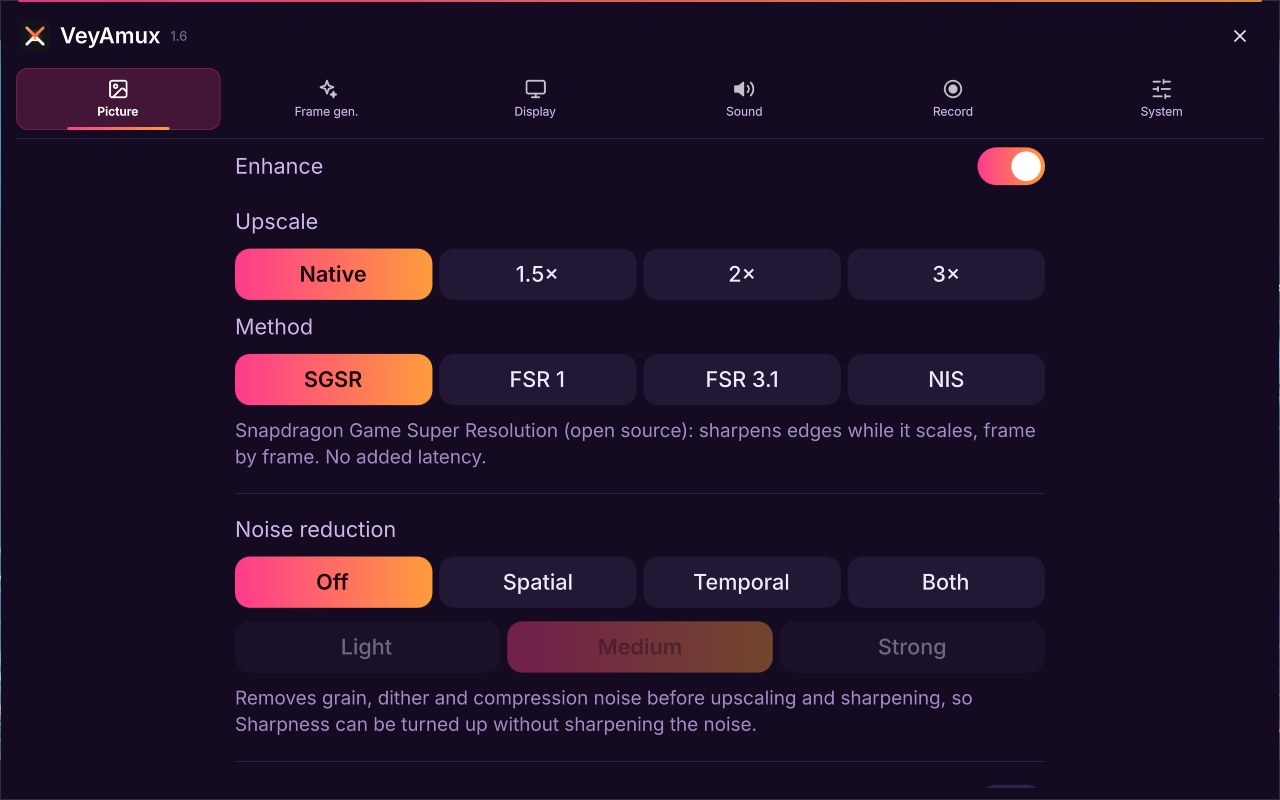
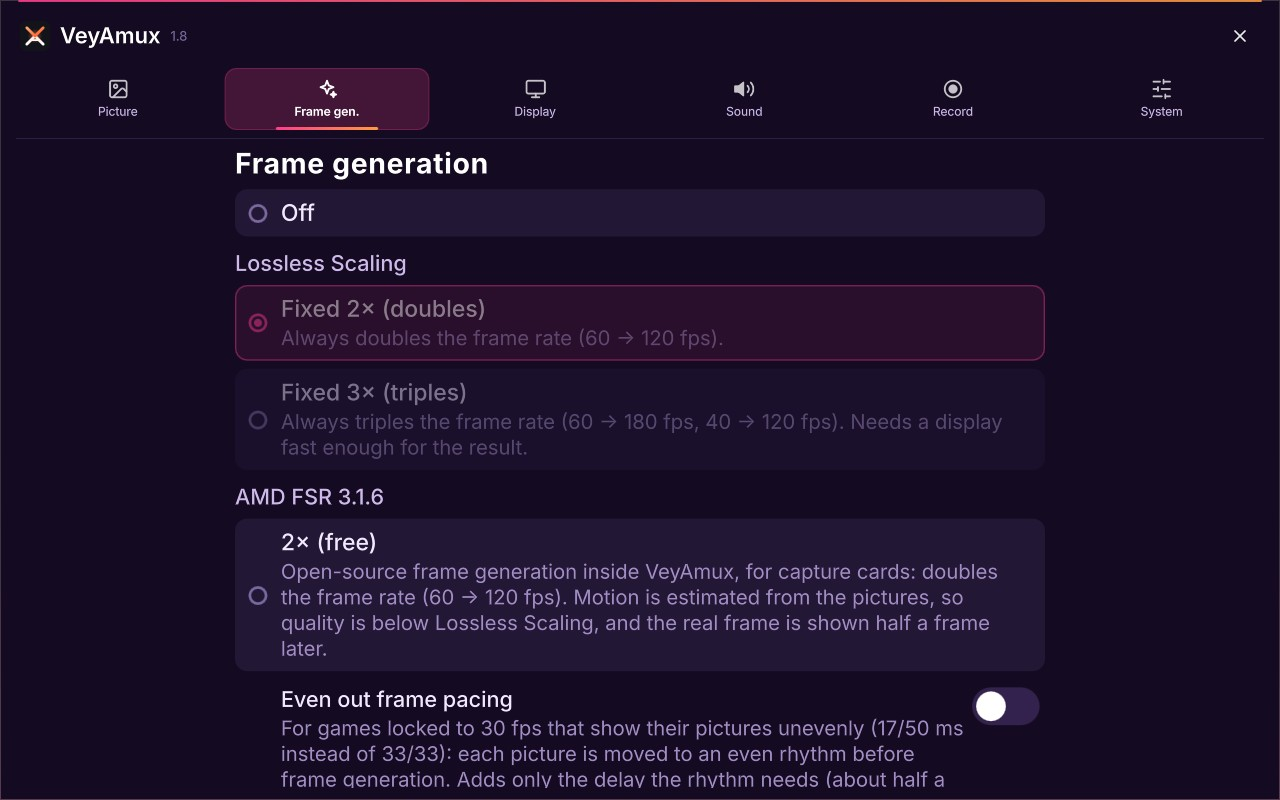
VeyAmux-V.1.8
- gamescope (SteamOS / Big Picture): while frame generation runs, the pointer is kept alive (nudged one pixel and
  back every 2 s, ignored by VeyAmux, and hidden with an all-but-transparent cursor instead of none), since frame
  generation was reported to stop a few seconds after the mouse stopped. VEYAMUX_GAMESCOPE_KEEPALIVE=0 turns it off.
- Release notes, README (New in 1.8, latency, troubleshooting), new screenshots, docs/REVIEW-FIXES.md.

Code review fixes, with notes in docs/REVIEW-FIXES.md:
Fixes MarkStokes-outlook/VeyAmux#1 (V4L2 buffer lease)
Fixes MarkStokes-outlook/VeyAmux#2 (plane bounds, MJPEG padding)
Refs MarkStokes-outlook/VeyAmux#3 (card YUV range)
Fixes MarkStokes-outlook/VeyAmux#4 (recording independent of the preview, write errors)
Fixes MarkStokes-outlook/VeyAmux#5 (OBS access and shutdown)
Fixes MarkStokes-outlook/VeyAmux#6 (pinned, checked build tools; update checks)
Fixes MarkStokes-outlook/VeyAmux#7 (private settings file)
Refs MarkStokes-outlook/VeyAmux#8 (FFmpeg interrupt, protocols, UI gate)
Refs MarkStokes-outlook/VeyAmux#9 (live-path test in CI)
Refs MarkStokes-outlook/VeyAmux#10 (resize without stalls)
Refs MarkStokes-outlook/VeyAmux#11 (seek resets, immediate drawing)
Refs MarkStokes-outlook/VeyAmux#12 (PQ transfer for FSR frame generation)

Claude-Session: https://claude.ai/code/session_01B4TdVpLCa5512iQxziCMJs

diff --git a/qml/Main.qml b/qml/Main.qml
@@ -35,6 +35,9 @@ Window {
         return (h > 0 ? h + ":" + (m < 10 ? "0" : "") : "") + m + ":" + (s < 10 ? "0" : "") + s
     }
     function wake() { controlsShown = true; hideTimer.restart() }
+    // gamescope: VeyAmux hides the pointer itself there, all but invisibly (see PlayerBridge::setPointerHidden)
+    readonly property bool pointerHidden: !controlsShown && fs && player.hasMedia
+    onPointerHiddenChanged: player.setPointerHidden(pointerHidden)
     readonly property var scales: [1.0, 1.5, 2.0, 3.0]
 
     Timer { id: hideTimer; interval: 2600; onTriggered: if (player.playing && !panelOpen && !scrubbing && !keepControls) controlsShown = false }
@@ -245,6 +248,7 @@ Window {
         cursorShape: player.demoActive && pressed ? Qt.ClosedHandCursor : (win.controlsShown || !win.fs) ? Qt.ArrowCursor : Qt.BlankCursor
         onPressed: (m) => { lx = m.x; ly = m.y }
         onPositionChanged: (m) => {
+            if (player.syntheticMove()) return   // gamescope keep-alive, not the user
             wake()
             if (pressed && player.demoActive) { player.demoLook(m.x - lx, m.y - ly); lx = m.x; ly = m.y }
         }

diff --git a/src/PlayerBridge.cpp b/src/PlayerBridge.cpp
@@ -1,4 +1,6 @@
 #include "PlayerBridge.h"
+#include <QPixmap>
+#include <QCursor>
 #include "Sandbox.h"
 #include "DemoSource.h"
 #include "RemotePlay.h"
@@ -181,6 +183,39 @@ PlayerBridge::PlayerBridge(const QString& shaderDir, QObject* parent)
     // updates: asked by itself a few seconds after the start (not while the first picture is being set up)
     if (autoUpdateCheck() && qEnvironmentVariable("VEYAMUX_NO_UPDATE_CHECK") != "1")
         QTimer::singleShot(8000, this, [this] { checkForUpdate(false); });
+    // Steam's gamescope session (SteamOS, Big Picture as a session): frame generation was reported to stop a few
+    // seconds after the mouse stops, and to come back when it moves. When the pointer is hidden and still, gamescope
+    // changes how it puts the window on screen. So while frame generation runs there, the pointer is never fully
+    // hidden (an all-but-transparent one, see setPointerHidden) and it is moved one pixel and back every two seconds,
+    // which VeyAmux itself ignores (syntheticMove). VEYAMUX_GAMESCOPE_KEEPALIVE=0 turns it off.
+    gamescope_ = inGamescope() || qEnvironmentVariable("XDG_CURRENT_DESKTOP").contains("gamescope", Qt::CaseInsensitive);
+    if (gamescope_ && qEnvironmentVariable("VEYAMUX_GAMESCOPE_KEEPALIVE") != "0") {
+        auto* keep = new QTimer(this);
+        connect(keep, &QTimer::timeout, this, [this] {
+            if (s_.frameGen == veyamux::FrameGenMode::Off || !hasMedia()) return;
+            const QPoint p = QCursor::pos();
+            nudgeUntil_.start();
+            QCursor::setPos(p + QPoint(p.x() > 0 ? -1 : 1, 0));
+            QCursor::setPos(p);
+        });
+        keep->start(2000);
+    }
+}
+
+bool PlayerBridge::syntheticMove() const { return nudgeUntil_.isValid() && nudgeUntil_.elapsed() < 250; }
+
+void PlayerBridge::setPointerHidden(bool hidden) {
+    if (!gamescope_ || qEnvironmentVariable("VEYAMUX_GAMESCOPE_KEEPALIVE") == "0") return;   // QML hides it itself
+    if (hidden == pointerHidden_) return;
+    pointerHidden_ = hidden;
+    if (hidden) {
+        // one pixel at the lowest alpha: nothing to see, but gamescope still has a pointer to draw
+        QImage img(1, 1, QImage::Format_ARGB32);
+        img.fill(qRgba(0, 0, 0, 1));
+        QGuiApplication::setOverrideCursor(QCursor(QPixmap::fromImage(img), 0, 0));
+    } else {
+        QGuiApplication::restoreOverrideCursor();
+    }
 }
 
 PlayerBridge::~PlayerBridge() {

diff --git a/src/PlayerBridge.h b/src/PlayerBridge.h
@@ -499,6 +499,9 @@ public slots:
     void demoPose(int pose);                       // -1: the next viewpoint
     void demoRelease();
     void demoPad(double lx, double ly, double rx, double ry, double lt, double rt, bool fast);
+    // gamescope: the pointer moved by VeyAmux itself (ignored by the window), and hiding it all but invisibly
+    bool syntheticMove() const;
+    void setPointerHidden(bool hidden);
 
     // ---- PlayStation Remote Play
     QVariantList psConsoles() const;
@@ -612,6 +615,8 @@ private:
             if (!closing) QMetaObject::invokeMethod(to, std::forward<F>(f), Qt::QueuedConnection);
         }
     };
+    bool gamescope_ = false, pointerHidden_ = false;
+    QElapsedTimer nudgeUntil_;
     std::shared_ptr<UiGate> psQuit_ = std::make_shared<UiGate>();   // VeyAmux is closing
     QTimer* psTimer_ = nullptr;     // refreshes the console list while searching
     QVariantList psSeen_;           // last discovery result

diff --git a/src/main.cpp b/src/main.cpp
@@ -106,7 +106,7 @@ int main(int argc, char** argv) {
 
     QCoreApplication::setOrganizationName("VeyAmux");
     QCoreApplication::setApplicationName("VeyAmux");
-    QCoreApplication::setApplicationVersion("1.7");
+    QCoreApplication::setApplicationVersion("1.8");
     // The program was called Veyra before: carry the old settings over once (the old folder is left untouched).
     {
         const QString base = QStandardPaths::writableLocation(QStandardPaths::GenericConfigLocation);

diff --git a/docs/REVIEW-FIXES.md b/docs/REVIEW-FIXES.md
@@ -1,0 +1,132 @@
+# Fixes from the code review (VeyAmux 1.8)
+
+On 2026-11-22, a code review was posted as issues 1–13 in
+[MarkStokes-outlook/VeyAmux](https://github.com/MarkStokes-outlook/VeyAmux/issues). Each finding was checked against
+the code. This page says what was fixed in 1.8, why, and what is left. (Issue 9 could not be read while this was
+written. GitHub kept refusing the page.)
+
+| Issue | Status |
+|---|---|
+| [#1](https://github.com/MarkStokes-outlook/VeyAmux/issues/1) V4L2 buffers through the Vulkan upload | Fixed |
+| [#2](https://github.com/MarkStokes-outlook/VeyAmux/issues/2) Plane bounds and MJPEG padding | Fixed |
+| [#3](https://github.com/MarkStokes-outlook/VeyAmux/issues/3) Range, transfer and primaries | Partly: the card's YUV range |
+| [#4](https://github.com/MarkStokes-outlook/VeyAmux/issues/4) Recording resolution independent of the preview | Fixed |
+| [#5](https://github.com/MarkStokes-outlook/VeyAmux/issues/5) OBS frame access and shutdown | Fixed |
+| [#6](https://github.com/MarkStokes-outlook/VeyAmux/issues/6) Build provenance and update installation | Fixed |
+| [#7](https://github.com/MarkStokes-outlook/VeyAmux/issues/7) Credentials | Fixed (file permissions) |
+| [#8](https://github.com/MarkStokes-outlook/VeyAmux/issues/8) Media I/O and background work on shutdown | Mostly fixed |
+| [#9](https://github.com/MarkStokes-outlook/VeyAmux/issues/9) Linux tests and a GPU baseline | Started: a live-path test runs in CI |
+| [#10](https://github.com/MarkStokes-outlook/VeyAmux/issues/10) Vulkan memory and resize stalls | Fixed: resize stalls |
+| [#11](https://github.com/MarkStokes-outlook/VeyAmux/issues/11) Temporal resets and presentation cadence | Partly |
+| [#12](https://github.com/MarkStokes-outlook/VeyAmux/issues/12) HDR precision and frame-generation transfer | Partly: the transfer |
+| [#13](https://github.com/MarkStokes-outlook/VeyAmux/issues/13) Profiling | Not yet (needs measurements on real hardware) |
+
+## #1 Keep V4L2 capture buffers owned through the Vulkan upload — fixed
+**What was wrong:** for uncompressed capture (NV12, YUYV, UYVY, P010), VeyAmux reads the picture straight from the
+driver's buffer and does not copy it first. The buffer was meant to stay with VeyAmux until the renderer had copied
+it, through a `shared_ptr` with a custom deleter. But that `shared_ptr` held a null pointer, and
+`if (!out.hold) QBUF` treated it as empty. So the buffer was handed back to the driver at once, and again when the
+frame was dropped. The card could write the next picture into a buffer the renderer was still reading. The result
+could be torn frames, frames in the wrong order, and wrong repeat detection for frame generation.
+
+**What changed:** every dequeued buffer has one owner, a lease that queues it again exactly once, when the last frame
+holding it lets go. The card always keeps at least three buffers to capture into. If the renderer holds too many, the
+picture is copied instead. VeyAmux now asks for 8 buffers instead of 6. The renderer also lets go at once of a
+picture it will not draw again, and of everything when the live path stops.
+
+## #2 Validate capture plane bounds and pad MJPEG packets — fixed
+**What was wrong:** MJPEG packets were handed to FFmpeg straight from the driver's buffer. FFmpeg may read up to 64
+bytes past the end of a packet, and that buffer has no padding there. Raw frames were also not checked against the
+size of all their planes. The GPU upload buffer was always `w × h × 4` bytes, which can be too small for a card that
+pads its rows.
+
+**What changed:** the JPEG is copied into a buffer with FFmpeg's zero padding. A frame shorter than its planes is
+refused before anything reads it, both on the CPU and before the GPU copy. Odd sizes and too-short strides are
+refused for YUV. The upload buffer grows to the frame's real size.
+
+## #3 Preserve range, transfer and primaries — partly
+**What changed:** when the card says its YUV is full range (V4L2 quantization), the picture is now decoded as full
+range on the GPU path too. Before, the GPU path always decoded limited range. Carrying the whole colour description
+(matrix, primaries, transfer) through every path is a larger change and is not done yet. Note: the colour report in
+[8BiTw0LF/VeyAmux#2](https://github.com/8BiTw0LF/VeyAmux/issues/2) points at the experimental HDR output, not this.
+
+## #4 Keep recording and stream resolution independent of the preview — fixed
+**What was wrong:** recording, instant replay and streaming used the picture after it was fitted to the window. If you
+resized the window or moved it to a screen with another scale, the encoder got a new size, and that ended the
+recording and the stream. Write errors (a full disk) and a failed file ending were ignored, so "Recording saved" could
+appear for a broken file.
+
+**What changed:** recording and streaming take the picture before it is fitted to the window. A write or file-ending
+error stops the recording with a message. A replay shows "saved" only when the file was finished correctly.
+
+## #5 Restrict OBS frame access and make shutdown safe — fixed
+**What was wrong:** the local OBS server sent `Access-Control-Allow-Origin: *` on every response, so any web page open
+in a browser could read the live picture from `127.0.0.1`. A site that points its own name at 127.0.0.1 (DNS rebinding)
+could also do so. `stop()` aborted the sockets while it walked the list of viewers, and an abort removes a viewer from
+that list straight away.
+
+**What changed:**
+- Only `/ping` (which the saved browser file needs) can be read by other pages. The pictures carry no CORS header, so a
+  page can show them but never read their pixels.
+- Requests with a foreign `Host` are refused.
+- At most 8 viewers. Connections that never send a request are closed after 10 s.
+- A picture from before a stop is never sent again.
+- `stop()` takes the list out first.
+
+The OBS browser file keeps working unchanged.
+
+## #6 Harden AppImage build provenance and update installation — fixed
+**What was wrong:** the build downloaded linuxdeploy, its Qt plugin and appimagetool from "continuous" releases, and
+the newest DXC. appimagetool also fetched the newest AppImage runtime while building. None of them was checked. The
+GitHub Actions were pinned by tag only.
+
+**What changed:**
+- All of these tools, the runtime included, are fixed releases checked by SHA-256. A mismatch stops the build.
+- The workflow's actions are pinned to commits.
+- An in-app update must come from GitHub (after redirects), have the size GitHub lists and be a real type-2 AppImage,
+  in addition to the checksum it was already checked against.
+
+## #7 Protect streaming and Remote Play credentials — fixed (file permissions)
+**What changed:** the stream key, the PSN account ID and the console registration keys are kept in
+`~/.config/VeyAmux/VeyAmux.conf`. That file is now readable by your user only (0600, folder 0700); Qt keeps the
+permissions when it rewrites the file. A keyring (Secret Service) is a possible next step.
+
+## #8 Bound media I/O and cancel background work safely on shutdown — mostly fixed
+**What was wrong:** a stalled read (a network share or stream) could not be interrupted when the player closed.
+Background threads (update check and download, lsfg-vk download, Remote Play) checked a "closing" flag and then posted
+to the UI. VeyAmux could finish closing between those two steps.
+
+**What changed:**
+- FFmpeg has an interrupt callback tied to closing.
+- Local files may only read local files: a playlist inside one cannot reach out to the network.
+- Network reads time out after 15 s.
+- Background results go to the UI through a gate. VeyAmux closes the gate under a lock before it is destroyed, so a
+  result can never reach a closed window.
+
+Not done: opening a file off the UI thread.
+
+## #10 Reduce Vulkan working memory and prevent preview resize stalls — resize stalls fixed
+**What was wrong:** any change of window size rebuilt the whole enhancement chain after `vkDeviceWaitIdle`. That
+stalled the GPU and threw away the history of the denoiser, anti-flicker and upscaler.
+
+**What changed:** when only the window size changes, only the display images are made again. The old ones are freed
+a few frames later, when no frame in flight can use them, and there is no device-wide wait. Smaller working memory is
+not done yet.
+
+## #11 Reset temporal processing reliably — partly
+**What changed:**
+- A seek reset no longer gets lost when a newer frame replaces the one that carried it.
+- A reset now also restarts frame generation and the HUD lock.
+- A new picture is drawn at once: Qt no longer waits for the compositor's frame callback.
+- `VEYAMUX_DEBUG_PACE=1` logs where each picture's time goes.
+
+Not done: measuring the real time the picture reaches the screen, and showing it apart from the drawing times.
+
+## #12 HDR precision and the frame-generation transfer — the transfer
+**What changed:** with HDR output, FSR frame generation is now told that the frames are PQ-coded, with their peak.
+Before, it was told sRGB. A 16-bit preview path is not done yet.
+
+## #9 and #13
+A test of the live capture path (`veyamux-live-test`) now runs in CI on software Vulkan. It covers window resizes,
+padded rows and short frames, and it passes Vulkan validation. The performance work in #13 waits for measurements on
+real hardware.

diff --git a/README.md b/README.md
@@ -25,6 +25,18 @@
 
 ---
 
+## New in 1.8
+
+- **Smoother frame pacing, less delay:** *Even out frame pacing* holds each picture only as long as it has to.
+  Pictures from MJPEG at 60 fps now come evenly. A signal that is already even gets almost no extra delay, and F3
+  shows the hold in ms. A new picture is also drawn at once, without waiting for the compositor.
+- **Capture list:** the best modes come first (on a 4K card: 4K NV12 30, 1080p NV12 30, 4K MJPEG 60). Mark up to
+  **three favourite signals** with ☆; the one used last is chosen automatically.
+- **Steam's gamescope session (SteamOS, Big Picture):** frame generation no longer stops a few seconds after the mouse
+  stops moving.
+- **Fixes from a code review:** capture buffers, recording while the window is resized, resize stalls, the OBS
+  source, private settings, checked updates and build tools. See [what was fixed and why](docs/REVIEW-FIXES.md).
+
 ## New in 1.7
 
 - **PlayStation Remote Play by IP address:** if the console is not found, type its IP address. VeyAmux asks it
@@ -86,7 +98,7 @@ Developed and tested on **Bazzite** (KDE Plasma) with an **AMD RX 9070 XT** and 
 </p>
 
 <p align="center">
-  <img src="docs/images/menu-tabs.jpg" width="900" alt="Three tabs of VeyAmux's menu: Frame generation (Lossless Scaling and AMD FSR 3.1.6, even out frame pacing), Record (instant replay, recording, live stream, comparison clips) and System (Check my setup with two findings, updates, performance report)">
+  <img src="docs/images/menu-tabs.jpg" width="900" alt="Three tabs of VeyAmux's menu: Frame generation (Lossless Scaling and AMD FSR 3.1.6, even out frame pacing), Record (instant replay, recording, live stream, comparison clips) and System (Check my setup, updates, performance report)">
   <br><sub>The Frame generation, Record and System tabs. The findings under <i>Check my setup</i> are from a test PC without a graphics card.</sub>
 </p>
 
@@ -285,10 +297,14 @@ Measured on an AMD RX 9070 XT with a 3840×2160 NV12 capture, noise reduction (*
 - **under 1 ms of CPU work** per frame,
 - **about 7 ms of GPU work** per frame.
 
-The menu shows *Delay in VeyAmux*, the time from the capture driver's timestamp until the picture is finished. In that
-setup it reads about 29–32 ms, and most of it is the picture waiting for the next display refresh, not processing.
-Lighter settings lower it. The capture card, USB, Lossless Scaling and the display add their own latency on top, as
-with any capture setup.
+The menu and F3 show the delay, the time from the capture driver's timestamp until the picture is finished. Most of
+it is not processing:
+- **USB:** a 4K NV12 picture is about 12 MB. At 30 fps it fills the USB link, so each picture takes about 30 ms to
+  arrive, and that counts in the delay. **1080p NV12** takes about 8 ms, and VeyAmux can upscale it again.
+  **4K MJPEG** arrives quickly but has to be decoded, and it is a little softer.
+- **Even out frame pacing** adds only what the rhythm needs. F3 shows the hold in ms.
+
+The capture card, Lossless Scaling and the display add their own latency on top, as with any capture setup.
 
 ## Installation
 
@@ -359,6 +375,8 @@ display. Turn VRR / adaptive sync off for VeyAmux.
 | Frame generation turned off after a crash | Press *Try again* in the menu. To start without lsfg-vk: `VEYAMUX_LSFG=0 ./VeyAmux-x86_64.AppImage` |
 | Motion does not look smoother | The display's refresh rate must match (see step 4). Log: `~/.config/VeyAmux/lsfg-vk.log` |
 | Lossless Scaling stutters or the picture seems to come and go | Turn VRR off (KDE: *Display & Monitor → Adaptive sync: Never*); VeyAmux warns when it is on. With a game locked to 30 fps, also turn on *Even out frame pacing*. |
+| Frame generation stops a few seconds after the mouse stops (Steam Big Picture / SteamOS) | Fixed in 1.8: VeyAmux keeps the pointer alive in gamescope while frame generation runs. To turn it off: `VEYAMUX_GAMESCOPE_KEEPALIVE=0`. |
+| The delay is high with 4K NV12 | Mostly USB transfer, see [Latency](#latency). Choose 1080p NV12 for the least delay. |
 | "Device or resource busy" | Another program (or a hung VeyAmux) uses the capture card. VeyAmux retries for 5 seconds and shows which program holds it. |
 | No 4K @ 60 HDR mode | Many cards only send HDR (P010) at 4K30 or 1440p60 over USB. Use 4K60 NV12 (SDR), 1440p60 P010 with upscaling, or 4K30 P010 with frame generation. |
 | HDR games look washed out | Choose a **P010 (HDR)** mode under Capture (C), and set *HDR capture: source peak brightness* to the game's HDR calibration. |

diff --git a/RELEASE_NOTES.md b/RELEASE_NOTES.md
@@ -1,24 +1,37 @@
-## VeyAmux-V.1.7
+## VeyAmux-V.1.8
 
-### PlayStation Remote Play: add a console by IP address
-Some consoles were never found, so they could not be registered. VeyAmux only looked for consoles by asking the whole
-network, and that does not work when:
-- the console is on another subnet or behind a VPN,
-- the router keeps Wi-Fi devices apart (Wi-Fi isolation),
-- a firewall drops the console's answer. Bazzite and Fedora have firewalld turned on, and it does not see an answer to
-  a network-wide question as a reply.
+### Smoother frame pacing, less delay
+- **Even out frame pacing** now holds a picture only as long as it has to. Before, every picture waited one extra
+  capture refresh, even when there was nothing to even out. And with MJPEG at 60 fps, decoding took longer than that
+  refresh, so the pictures came out uneven again (17/50 ms instead of 33/33). Now the hold follows the slowest recent
+  picture. The rhythm is even, and a signal that is already even gets almost no extra delay. F3 shows the hold in ms.
+- **A new picture is drawn at once.** Before, Qt waited for the compositor's next frame on Wayland, which added a little
+  jitter to every picture.
+- **Steam's gamescope session (SteamOS, Big Picture):** frame generation was reported to stop a few seconds after the
+  mouse stopped moving. While frame generation runs there, VeyAmux now keeps the pointer alive. The pointer stays
+  invisible and the controls stay hidden.
 
-Now the Remote Play window has **Add a console by IP address**. Type the address (on the console: *Settings → Network
-→ Connection Status → View Connection Status*), choose PS5 or PS4 and press **Add**:
-- VeyAmux asks the console directly at that address. That answer gets through the firewall, so the console shows up
-  with its name and whether it is on or in rest mode.
-- If it still does not answer, it can be registered straight at the address with the PIN. Play, wake-up and the rest
-  then work as usual.
-- An address typed by mistake can be removed again.
+### Capture list
+- The best modes come first: the largest uncompressed mode (on a 4K card: **4K NV12 30**, the default), then
+  **1080p NV12 30** (a quarter of the USB traffic, so much less delay), then **4K MJPEG 60** for 60 fps games.
+- **Favourite signals:** click ☆ on up to three modes. They come first, and the one used last is chosen automatically.
+
+### Fixes from a code review
+A code review ([MarkStokes-outlook/VeyAmux](https://github.com/MarkStokes-outlook/VeyAmux/issues)) found real
+problems. What was fixed and why: [docs/REVIEW-FIXES.md](docs/REVIEW-FIXES.md). The most important ones:
+- **Capture cards:** a picture read straight from the card's buffer was handed back to the card at once, so the card
+  could write a new picture into it while VeyAmux was still copying it. This could cause torn or out-of-order frames.
+- Recording and streaming no longer change resolution, or stop, when the window is resized. A recording that could not
+  be saved completely now says so.
+- Resizing the window no longer stalls the graphics card or resets noise reduction and anti-flicker.
+- The OBS browser source can no longer be read by web pages.
+- The settings file with the stream key and the Remote Play keys is readable by your user only.
+- Updates are checked harder: the update must come from GitHub, have the right size and be a real AppImage.
+- The build tools are fixed versions checked by SHA-256.
 
 ### Download
-Already on 1.6? VeyAmux offers the update by itself (on the start screen and under *System*). Otherwise, download
-`VeyAmux-x86_64.AppImage` below, make it executable (`chmod +x`) and run it.
+Already on 1.6 or newer? VeyAmux offers the update by itself (on the start screen and under *System*). Otherwise,
+download `VeyAmux-x86_64.AppImage` below, make it executable (`chmod +x`) and run it.
 
 Lossless Scaling frame generation still needs your own copy of Lossless Scaling (Steam) and lsfg-vk. VeyAmux does not
 include either of them.

diff --git a/docs/TEKNISK.md b/docs/TEKNISK.md
@@ -586,7 +586,7 @@ den over `$APPIMAGE`. Den kørende kopi fortsætter til genstart. Automatisk sø
 ## Miljøvariabler
 `VEYAMUX_HDR_OUT=0` (slå HDR-output fra) · `VEYAMUX_HDR_MODE=hdr10|scrgb` · `VEYAMUX_GAMESCOPE=0` · `VEYAMUX_AUDIO_MS=<ms>` ·
 `--fullscreen` · `--capture last` · `VEYAMUX_REC_SOFTWARE=1` (optag med libx264) · `VEYAMUX_FSR1_RCAS=<stop>` ·
-`VEYAMUX_UI=software|vulkan` · `VEYAMUX_VSYNC=1` · `--reset-ui` · `VEYAMUX_LSFG=0` (slå lsfg-vk fra) · `VEYAMUX_DEBUG_FG=1` (logger frame generation og opskalering i den direkte capture-vej) · `VEYAMUX_NO_GPU=1` (slå Vulkan-kæden fra) · `VEYAMUX_HWDEC=0` (slå VAAPI fra) · `VEYAMUX_PS_SWDECODE=1` (Remote Play: software-afkodning) · `VEYAMUX_FILE_GPU=0` (videofiler: gammel CPU-vej) · `VEYAMUX_CAPTURE_COPY=1` (capture: kopi som før) · `VEYAMUX_DEDUP_SPARSE=1` (dublet-fjernelse med det gamle glisne gitter) · `VEYAMUX_NO_UPDATE_CHECK=1` (ingen automatisk søgning efter opdateringer) · `--tab=N` (åbn menuen på fane N, med `--panel`) · `VEYAMUX_VAAPI_DEVICE=/dev/dri/renderD128` · `VEYAMUX_VK_DEVICE=n` · `VEYAMUX_SHADER_DIR`
+`VEYAMUX_UI=software|vulkan` · `VEYAMUX_VSYNC=1` · `--reset-ui` · `VEYAMUX_LSFG=0` (slå lsfg-vk fra) · `VEYAMUX_DEBUG_FG=1` (logger frame generation og opskalering i den direkte capture-vej) · `VEYAMUX_NO_GPU=1` (slå Vulkan-kæden fra) · `VEYAMUX_HWDEC=0` (slå VAAPI fra) · `VEYAMUX_PS_SWDECODE=1` (Remote Play: software-afkodning) · `VEYAMUX_FILE_GPU=0` (videofiler: gammel CPU-vej) · `VEYAMUX_CAPTURE_COPY=1` (capture: kopi som før) · `VEYAMUX_DEDUP_SPARSE=1` (dublet-fjernelse med det gamle glisne gitter) · `VEYAMUX_NO_UPDATE_CHECK=1` (ingen automatisk søgning efter opdateringer) · `VEYAMUX_DEBUG_PACE=1` (logger for hvert billede: capture → pacer → renderer → tegning) · `VEYAMUX_QT_UPDATE=1` (tegn via Qt's update() som før, der venter på compositorens frame callback) · `VEYAMUX_GAMESCOPE_KEEPALIVE=0` (gamescope: slå hold-markøren-i-live fra) · `--tab=N` (åbn menuen på fane N, med `--panel`) · `VEYAMUX_VAAPI_DEVICE=/dev/dri/renderD128` · `VEYAMUX_VK_DEVICE=n` · `VEYAMUX_SHADER_DIR`
 
 ## Genvejstaster
 Mellemrum afspil/pause · ←/→ ±5 s (Shift ±30 s) · ↑/↓ volumen · F fuldskærm · E forbedring til/fra · P panel · M lyd fra · O åbn ·
